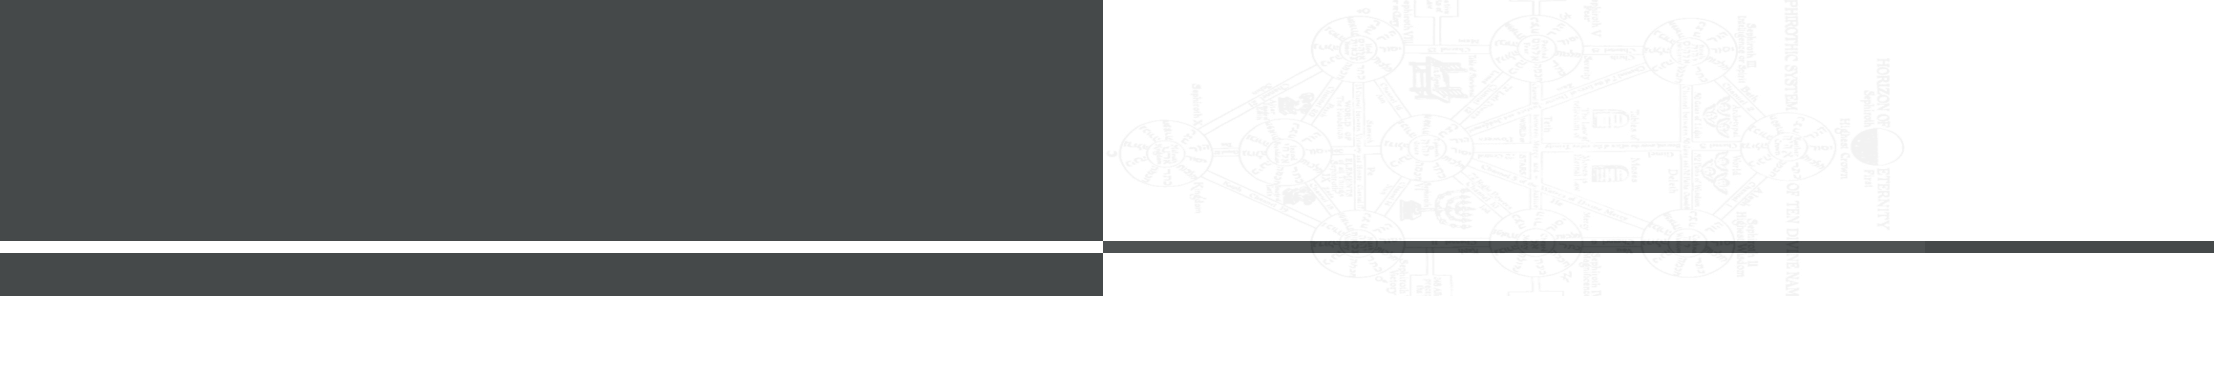
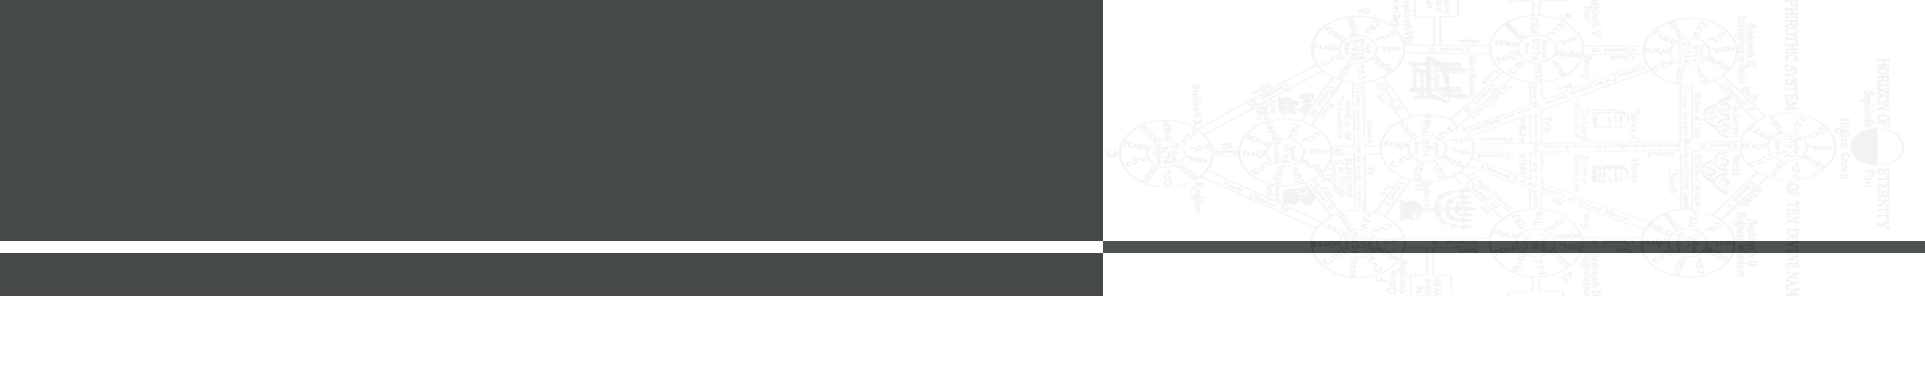
Site updated: 2018-09-28 20:19:17

Changed region(s): [[0.4987, 0.0, 0.5922, 0.7857]]

diff --git a/css/main.css b/css/main.css
@@ -445,11 +445,11 @@ body {
 .header-inner {
   margin: 0 auto;
   padding: 100px 0 70px;
-  width: 700px;
+  width: 600px;
 }
 @media (min-width: 1600px) {
   .container .header-inner {
-    width: 900px;
+    width: 600px;
   }
 }
 .main {
@@ -457,11 +457,11 @@ body {
 }
 .main-inner {
   margin: 0 auto;
-  width: 700px;
+  width: 600px;
 }
 @media (min-width: 1600px) {
   .container .main-inner {
-    width: 900px;
+    width: 600px;
   }
 }
 .footer {
@@ -474,11 +474,11 @@ body {
 .footer-inner {
   box-sizing: border-box;
   margin: 20px auto;
-  width: 700px;
+  width: 600px;
 }
 @media (min-width: 1600px) {
   .container .footer-inner {
-    width: 900px;
+    width: 600px;
   }
 }
 pre,
@@ -1816,7 +1816,7 @@ pre .javascript .function {
   width: 4px;
   height: 4px;
   border-radius: 50%;
-  background: #f21aa3;
+  background: #bff6ff;
 }
 .links-of-blogroll {
   font-size: 13px;
@@ -2630,7 +2630,7 @@ hr {
 }
 .header {
   background: url("../image/back.png") no-repeat;
-  background-size: 2200px 280px;
+  background-size: 100%;
 }
 .header-inner {
   padding: 50px 800px 0px 20px;
@@ -2895,7 +2895,7 @@ hr {
 }
 .footer {
   margin-top: 80px;
-  padding: 5px 0;
+  padding: 5px 0px 0px 0px;
   background-color: rgba(0,0,0,0.8);
   color: #666;
 }

diff --git a/2018/09/28/GEEs/index.html b/2018/09/28/GEEs/index.html
@@ -297,15 +297,14 @@
 
 
 
-
 <a >
-  <img src="../image/scut.jpg" alt="scut"  width="88" height="88" style="position:absolute; left:1100px; top:35px;   >
+  <img src="../image/scut.jpg" alt="scut"  width="88" height="88" style="position:absolute; left:840px; top:35px;   >
 </a>
 
 
 
 <a href="" >
-  <img src="../image/stanw.png" alt="stan"  width="144" height="144" style="position:absolute; left:900px; top:0px;   >
+  <img src="../image/stanw.png" alt="stan"  width="144" height="144" style="position:absolute; left:680px; top:0px;   >
 </a>
 
  </div>

diff --git a/about/index.html b/about/index.html
@@ -285,15 +285,14 @@
 
 
 
-
 <a >
-  <img src="../image/scut.jpg" alt="scut"  width="88" height="88" style="position:absolute; left:1100px; top:35px;   >
+  <img src="../image/scut.jpg" alt="scut"  width="88" height="88" style="position:absolute; left:840px; top:35px;   >
 </a>
 
 
 
 <a href="" >
-  <img src="../image/stanw.png" alt="stan"  width="144" height="144" style="position:absolute; left:900px; top:0px;   >
+  <img src="../image/stanw.png" alt="stan"  width="144" height="144" style="position:absolute; left:680px; top:0px;   >
 </a>
 
  </div>

diff --git a/archive/index.html b/archive/index.html
@@ -285,15 +285,14 @@
 
 
 
-
 <a >
-  <img src="../image/scut.jpg" alt="scut"  width="88" height="88" style="position:absolute; left:1100px; top:35px;   >
+  <img src="../image/scut.jpg" alt="scut"  width="88" height="88" style="position:absolute; left:840px; top:35px;   >
 </a>
 
 
 
 <a href="" >
-  <img src="../image/stanw.png" alt="stan"  width="144" height="144" style="position:absolute; left:900px; top:0px;   >
+  <img src="../image/stanw.png" alt="stan"  width="144" height="144" style="position:absolute; left:680px; top:0px;   >
 </a>
 
  </div>

diff --git a/archives/2018/09/index.html b/archives/2018/09/index.html
@@ -284,15 +284,14 @@
 
 
 
-
 <a >
-  <img src="../image/scut.jpg" alt="scut"  width="88" height="88" style="position:absolute; left:1100px; top:35px;   >
+  <img src="../image/scut.jpg" alt="scut"  width="88" height="88" style="position:absolute; left:840px; top:35px;   >
 </a>
 
 
 
 <a href="" >
-  <img src="../image/stanw.png" alt="stan"  width="144" height="144" style="position:absolute; left:900px; top:0px;   >
+  <img src="../image/stanw.png" alt="stan"  width="144" height="144" style="position:absolute; left:680px; top:0px;   >
 </a>
 
  </div>

diff --git a/archives/2018/index.html b/archives/2018/index.html
@@ -284,15 +284,14 @@
 
 
 
-
 <a >
-  <img src="../image/scut.jpg" alt="scut"  width="88" height="88" style="position:absolute; left:1100px; top:35px;   >
+  <img src="../image/scut.jpg" alt="scut"  width="88" height="88" style="position:absolute; left:840px; top:35px;   >
 </a>
 
 
 
 <a href="" >
-  <img src="../image/stanw.png" alt="stan"  width="144" height="144" style="position:absolute; left:900px; top:0px;   >
+  <img src="../image/stanw.png" alt="stan"  width="144" height="144" style="position:absolute; left:680px; top:0px;   >
 </a>
 
  </div>

diff --git a/archives/index.html b/archives/index.html
@@ -284,15 +284,14 @@
 
 
 
-
 <a >
-  <img src="../image/scut.jpg" alt="scut"  width="88" height="88" style="position:absolute; left:1100px; top:35px;   >
+  <img src="../image/scut.jpg" alt="scut"  width="88" height="88" style="position:absolute; left:840px; top:35px;   >
 </a>
 
 
 
 <a href="" >
-  <img src="../image/stanw.png" alt="stan"  width="144" height="144" style="position:absolute; left:900px; top:0px;   >
+  <img src="../image/stanw.png" alt="stan"  width="144" height="144" style="position:absolute; left:680px; top:0px;   >
 </a>
 
  </div>

diff --git a/categories/index.html b/categories/index.html
@@ -285,15 +285,14 @@
 
 
 
-
 <a >
-  <img src="../image/scut.jpg" alt="scut"  width="88" height="88" style="position:absolute; left:1100px; top:35px;   >
+  <img src="../image/scut.jpg" alt="scut"  width="88" height="88" style="position:absolute; left:840px; top:35px;   >
 </a>
 
 
 
 <a href="" >
-  <img src="../image/stanw.png" alt="stan"  width="144" height="144" style="position:absolute; left:900px; top:0px;   >
+  <img src="../image/stanw.png" alt="stan"  width="144" height="144" style="position:absolute; left:680px; top:0px;   >
 </a>
 
  </div>

diff --git a/categories/statistics/index.html b/categories/statistics/index.html
@@ -284,15 +284,14 @@
 
 
 
-
 <a >
-  <img src="../image/scut.jpg" alt="scut"  width="88" height="88" style="position:absolute; left:1100px; top:35px;   >
+  <img src="../image/scut.jpg" alt="scut"  width="88" height="88" style="position:absolute; left:840px; top:35px;   >
 </a>
 
 
 
 <a href="" >
-  <img src="../image/stanw.png" alt="stan"  width="144" height="144" style="position:absolute; left:900px; top:0px;   >
+  <img src="../image/stanw.png" alt="stan"  width="144" height="144" style="position:absolute; left:680px; top:0px;   >
 </a>
 
  </div>

diff --git a/index.html b/index.html
@@ -285,15 +285,14 @@
 
 
 
-
 <a >
-  <img src="../image/scut.jpg" alt="scut"  width="88" height="88" style="position:absolute; left:1100px; top:35px;   >
+  <img src="../image/scut.jpg" alt="scut"  width="88" height="88" style="position:absolute; left:840px; top:35px;   >
 </a>
 
 
 
 <a href="" >
-  <img src="../image/stanw.png" alt="stan"  width="144" height="144" style="position:absolute; left:900px; top:0px;   >
+  <img src="../image/stanw.png" alt="stan"  width="144" height="144" style="position:absolute; left:680px; top:0px;   >
 </a>
 
  </div>

diff --git a/tags/index.html b/tags/index.html
@@ -285,15 +285,14 @@
 
 
 
-
 <a >
-  <img src="../image/scut.jpg" alt="scut"  width="88" height="88" style="position:absolute; left:1100px; top:35px;   >
+  <img src="../image/scut.jpg" alt="scut"  width="88" height="88" style="position:absolute; left:840px; top:35px;   >
 </a>
 
 
 
 <a href="" >
-  <img src="../image/stanw.png" alt="stan"  width="144" height="144" style="position:absolute; left:900px; top:0px;   >
+  <img src="../image/stanw.png" alt="stan"  width="144" height="144" style="position:absolute; left:680px; top:0px;   >
 </a>
 
  </div>

diff --git a/tags/statistics/index.html b/tags/statistics/index.html
@@ -284,15 +284,14 @@
 
 
 
-
 <a >
-  <img src="../image/scut.jpg" alt="scut"  width="88" height="88" style="position:absolute; left:1100px; top:35px;   >
+  <img src="../image/scut.jpg" alt="scut"  width="88" height="88" style="position:absolute; left:840px; top:35px;   >
 </a>
 
 
 
 <a href="" >
-  <img src="../image/stanw.png" alt="stan"  width="144" height="144" style="position:absolute; left:900px; top:0px;   >
+  <img src="../image/stanw.png" alt="stan"  width="144" height="144" style="position:absolute; left:680px; top:0px;   >
 </a>
 
  </div>
